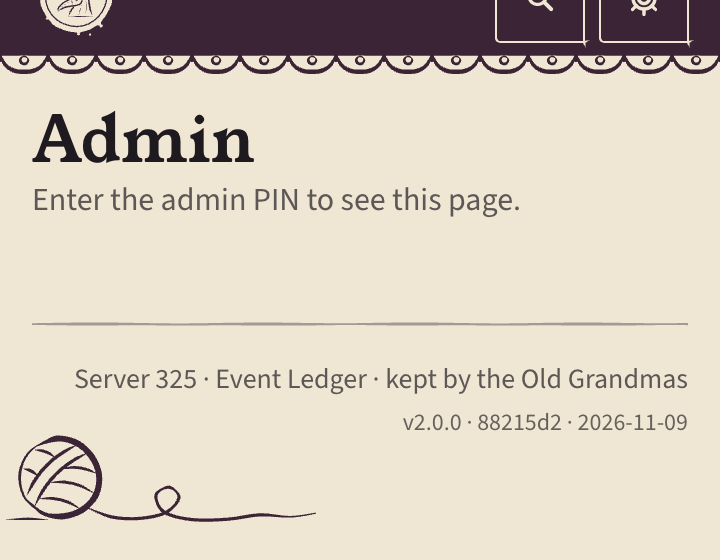
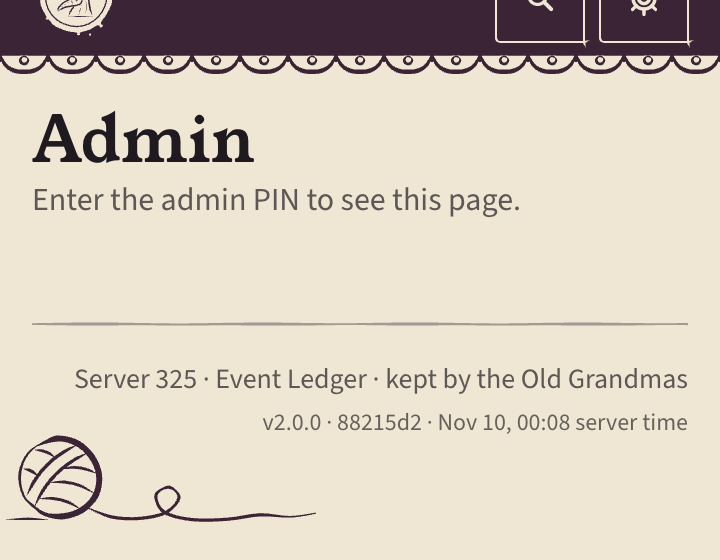
feat(footer): write the build time with the page's clock (#193)
The owner wants the full date formatted like the system's other dates. The
build now inlines only the label (release or branch, short commit) and the ISO
build time; SiteFooter formats the time with the page's Clock (clock.at), so it
follows the viewer's language, zone and date order on public pages and server
time on /admin. SiteFooter and ErrorPage take a required clock; the client
error boundaries pass null and show the label alone. D58 records the owner's
answers: only releases reach main, and the contrast rule stays.

Changed region(s): [[0.3667, 0.7286, 0.9472, 0.7893]]

diff --git a/app/_ui/SiteFooter.tsx b/app/_ui/SiteFooter.tsx
@@ -1,18 +1,25 @@
 // Page footer: the ledger's byline on the right and one corner ornament at the bottom left, out of the
 // content's way (DESIGN.md ornament budget): the yarn ball by default, the Granny Doctor on the error
-// and player pages. Under the byline, the build line (D58): release or branch, short commit, build date,
-// inlined at build time by next.config.ts.
+// and player pages. Under the byline, the build line (D58): release or branch and short commit, inlined
+// by next.config.ts, then the build time in the page's clock like every other date.
 import { GrannyStanding } from "@/lib/brand/components/Mascot";
 import { YarnCorner } from "@/lib/brand/components/YarnCorner";
 import type { Dictionary } from "@/lib/copy";
 
+import type { Clock } from "./format";
+
 export function SiteFooter({
   ornament = "yarn",
+  clock,
   copy,
 }: {
   ornament?: "yarn" | "granny";
+  /** The page's clock; null in the client error boundaries, which then show no build time. */
+  clock: Clock | null;
   copy: Dictionary;
 }) {
+  const builtAt = process.env.BUILD_AT;
+  const build = [process.env.BUILD_LABEL, builtAt && clock ? clock.at(new Date(builtAt)) : null];
   return (
     <footer
       className={`relative mx-auto mt-8 max-w-[960px] px-4 text-plum sm:px-6 ${ornament === "granny" ? "h-36" : "h-28"}`}
@@ -21,7 +28,9 @@ export function SiteFooter({
       <p className="text-right text-body-sm text-ink/70">
         {copy.site.ledger} · {copy.site.byline}
       </p>
-      <p className="mt-1 text-right text-xs text-ink/65 tabular-nums">{process.env.BUILD_LINE}</p>
+      <p className="mt-1 text-right text-xs text-ink/65 tabular-nums">
+        {build.filter(Boolean).join(" · ")}
+      </p>
       {ornament === "granny" ? (
         <GrannyStanding className="absolute bottom-2 left-2 w-20" />
       ) : (

diff --git a/lib/build-line.ts b/lib/build-line.ts
@@ -1,15 +1,20 @@
-// The footer's build line (D58): which build is live. next.config.ts calls this once per build with
-// Vercel's system variables and the build's clock, and inlines the result as process.env.BUILD_LINE.
-// A main deploy of a release merge commit shows the release; any other deploy shows its branch.
+// The footer's build line (D58): which build is live. next.config.ts calls buildInfo once per build with
+// Vercel's system variables and the build's clock, and inlines both values with `env`. BUILD_LABEL is the
+// release on a main deploy of a release merge commit, else the branch, then the short commit; BUILD_AT
+// is the build time (ISO, empty locally), which the footer formats with the request's clock like every
+// other date.
 // The line release-publish.yml matches (D29): on any line, so GitHub's default merge message works too.
 const RELEASE = /^release: (v\d+\.\d+\.\d+)/m;
 
 // Reads VERCEL_GIT_COMMIT_SHA, VERCEL_GIT_COMMIT_REF and VERCEL_GIT_COMMIT_MESSAGE.
-export function buildLine(env: Record<string, string | undefined>, builtAt: Date): string {
+export function buildInfo(
+  env: Record<string, string | undefined>,
+  builtAt: Date,
+): { BUILD_LABEL: string; BUILD_AT: string } {
   const sha = env.VERCEL_GIT_COMMIT_SHA;
-  if (!sha) return "local";
+  if (!sha) return { BUILD_LABEL: "local", BUILD_AT: "" };
   const ref = env.VERCEL_GIT_COMMIT_REF;
   const release =
     ref === "main" ? RELEASE.exec(env.VERCEL_GIT_COMMIT_MESSAGE ?? "")?.[1] : undefined;
-  return [release ?? ref, sha.slice(0, 7), builtAt.toISOString().slice(0, 10)].join(" · ");
+  return { BUILD_LABEL: `${release ?? ref} · ${sha.slice(0, 7)}`, BUILD_AT: builtAt.toISOString() };
 }

diff --git a/lib/build-line.test.ts b/lib/build-line.test.ts
@@ -1,18 +1,21 @@
 import { describe, expect, it } from "vitest";
 
-import { buildLine } from "./build-line";
+import { buildInfo } from "./build-line";
 
 const builtAt = new Date("2026-11-08T23:30:00Z");
 const SHA = "88215d2f0c1e4b7a9d3e5f60718293a4b5c6d7e8";
 
-describe("buildLine", () => {
+describe("buildInfo", () => {
   it("shows the release on a main deploy of a release merge commit", () => {
     const env = {
       VERCEL_GIT_COMMIT_SHA: SHA,
       VERCEL_GIT_COMMIT_REF: "main",
       VERCEL_GIT_COMMIT_MESSAGE: "release: v2.0.0 (#190)\n\nNotes",
     };
-    expect(buildLine(env, builtAt)).toBe("v2.0.0 · 88215d2 · 2026-11-08");
+    expect(buildInfo(env, builtAt)).toEqual({
+      BUILD_LABEL: "v2.0.0 · 88215d2",
+      BUILD_AT: "2026-11-08T23:30:00.000Z",
+    });
   });
 
   it("shows the branch, not a version, on a dev deploy even of a release commit", () => {
@@ -21,10 +24,10 @@ describe("buildLine", () => {
       VERCEL_GIT_COMMIT_REF: "dev",
       VERCEL_GIT_COMMIT_MESSAGE: "release: v2.0.0 (#190)",
     };
-    expect(buildLine(env, builtAt)).toBe("dev · 88215d2 · 2026-11-08");
+    expect(buildInfo(env, builtAt).BUILD_LABEL).toBe("dev · 88215d2");
   });
 
-  it("reads local when no Vercel commit is set", () => {
-    expect(buildLine({}, builtAt)).toBe("local");
+  it("reads local, with no build time, when no Vercel commit is set", () => {
+    expect(buildInfo({}, builtAt)).toEqual({ BUILD_LABEL: "local", BUILD_AT: "" });
   });
 });

diff --git a/app/_ui/SiteFooter.test.ts b/app/_ui/SiteFooter.test.ts
@@ -1,0 +1,29 @@
+import { createElement } from "react";
+import { renderToStaticMarkup } from "react-dom/server";
+import { afterEach, describe, expect, it, vi } from "vitest";
+
+import { en } from "@/lib/copy";
+
+import { makeClock } from "./format";
+import { SiteFooter } from "./SiteFooter";
+
+const buildLine = (html: string) => /tabular-nums">([^<]*)<\/p>/.exec(html)?.[1];
+
+describe("SiteFooter", () => {
+  afterEach(() => vi.unstubAllEnvs());
+
+  it("writes the build time with the page's clock, like every other date", () => {
+    vi.stubEnv("BUILD_LABEL", "v2.0.0 · 88215d2");
+    vi.stubEnv("BUILD_AT", "2026-11-08T23:30:00.000Z");
+    const clock = makeClock("en", "Etc/GMT+2", { own: false, date: "dd/mm" });
+    const html = renderToStaticMarkup(createElement(SiteFooter, { clock, copy: en }));
+    expect(buildLine(html)).toBe("v2.0.0 · 88215d2 · 08/11, 21:30 server time");
+  });
+
+  it("leaves the build time out where the page has no clock (the client error boundaries)", () => {
+    vi.stubEnv("BUILD_LABEL", "dev · 88215d2");
+    vi.stubEnv("BUILD_AT", "2026-11-08T23:30:00.000Z");
+    const html = renderToStaticMarkup(createElement(SiteFooter, { clock: null, copy: en }));
+    expect(buildLine(html)).toBe("dev · 88215d2");
+  });
+});

diff --git a/app/_ui/ErrorPage.tsx b/app/_ui/ErrorPage.tsx
@@ -6,6 +6,7 @@ import type { ReactNode } from "react";
 import { buttonClass } from "@/lib/brand/components/Button";
 import type { Dictionary } from "@/lib/copy";
 
+import type { Clock } from "./format";
 import { SiteFooter } from "./SiteFooter";
 import { SiteHeader } from "./SiteHeader";
 
@@ -15,6 +16,7 @@ export function ErrorPage({
   body,
   art,
   actions,
+  clock,
   copy,
 }: {
   code: string;
@@ -22,6 +24,8 @@ export function ErrorPage({
   body: string;
   art: ReactNode;
   actions: ReactNode;
+  /** The request's clock for the footer's build time; null in the client error boundaries. */
+  clock: Clock | null;
   /** The request's words, or English in global-error, which has no provider. */
   copy: Dictionary;
 }) {
@@ -41,7 +45,7 @@ export function ErrorPage({
           </div>
         </div>
       </main>
-      <SiteFooter ornament="granny" copy={copy} />
+      <SiteFooter ornament="granny" clock={clock} copy={copy} />
     </>
   );
 }

diff --git a/app/not-found.tsx b/app/not-found.tsx
@@ -2,7 +2,7 @@
 import Link from "next/link";
 
 import { ErrorPage, primaryAction } from "@/app/_ui/ErrorPage";
-import { requestCopy } from "@/app/_ui/locale";
+import { requestClock, requestCopy } from "@/app/_ui/locale";
 import { YarnLeftBehind } from "@/lib/brand/components/Vignettes";
 
 export async function generateMetadata() {
@@ -11,7 +11,7 @@ export async function generateMetadata() {
 }
 
 export default async function NotFound() {
-  const copy = await requestCopy();
+  const [clock, copy] = await Promise.all([requestClock(), requestCopy()]);
   const t = copy.errors.notFound;
   return (
     <ErrorPage
@@ -19,6 +19,7 @@ export default async function NotFound() {
       title={t.title}
       body={t.body}
       art={<YarnLeftBehind />}
+      clock={clock}
       copy={copy}
       actions={
         <Link href="/" className={primaryAction}>

diff --git a/app/_ui/EmptyEvents.tsx b/app/_ui/EmptyEvents.tsx
@@ -1,10 +1,10 @@
 import { EmptyState } from "./EmptyState";
-import { requestCopy } from "./locale";
+import { requestClock, requestCopy } from "./locale";
 import { SiteFooter } from "./SiteFooter";
 import { SiteHeader } from "./SiteHeader";
 
 export async function EmptyEvents() {
-  const copy = await requestCopy();
+  const [clock, copy] = await Promise.all([requestClock(), requestCopy()]);
   return (
     <>
       <SiteHeader events={[]} currentId={null} homeId={null} copy={copy} />
@@ -12,7 +12,7 @@ export async function EmptyEvents() {
         <h1 className="sr-only">{copy.site.name}</h1>
         <EmptyState>{copy.empty.kettle}</EmptyState>
       </main>
-      <SiteFooter copy={copy} />
+      <SiteFooter clock={clock} copy={copy} />
     </>
   );
 }

diff --git a/app/_ui/admin/AdminShell.tsx b/app/_ui/admin/AdminShell.tsx
@@ -25,7 +25,7 @@ const NAV = [
 ];
 
 export async function AdminShell({ title, children }: { title: string; children: ReactNode }) {
-  const unlocked = await isAdmin();
+  const [unlocked, clock] = await Promise.all([isAdmin(), requestServerClock()]);
   return (
     // English whatever the viewer's language (D48): the lang attribute says so for this subtree.
     <div lang="en">
@@ -33,7 +33,7 @@ export async function AdminShell({ title, children }: { title: string; children:
       <main className="mx-auto max-w-[960px] px-4 py-4 sm:px-6">
         {unlocked ? <Unlocked title={title}>{children}</Unlocked> : <PinGate />}
       </main>
-      <SiteFooter copy={copy} />
+      <SiteFooter clock={clock} copy={copy} />
     </div>
   );
 }

diff --git a/next.config.ts b/next.config.ts
@@ -2,7 +2,7 @@
 // `env` inlines the footer's build line at build time (D58).
 import type { NextConfig } from "next";
 
-import { buildLine } from "./lib/build-line";
+import { buildInfo } from "./lib/build-line";
 
 const securityHeaders = [
   { key: "X-Content-Type-Options", value: "nosniff" },
@@ -17,7 +17,7 @@ const securityHeaders = [
 
 const nextConfig: NextConfig = {
   poweredByHeader: false,
-  env: { BUILD_LINE: buildLine(process.env, new Date()) },
+  env: buildInfo(process.env, new Date()),
   async headers() {
     return [{ source: "/:path*", headers: securityHeaders }];
   },

diff --git a/app/(pages)/events/[id]/alliances/[unionId]/page.tsx b/app/(pages)/events/[id]/alliances/[unionId]/page.tsx
@@ -304,7 +304,7 @@ export default async function AlliancePage({ params }: { params: Params }) {
         <MemberList detail={detail} canDelta={canDelta} />
         <AcrossEvents unionId={unionId} history={history} clock={clock} />
       </main>
-      <SiteFooter copy={copy} />
+      <SiteFooter clock={clock} copy={copy} />
     </>
   );
 }

diff --git a/app/(pages)/players/[uid]/page.tsx b/app/(pages)/players/[uid]/page.tsx
@@ -201,7 +201,7 @@ export default async function PlayerPage({ params }: { params: Params }) {
           showAlliance={new Set(history.alliances.map((a) => a.unionId)).size > 1}
         />
       </main>
-      <SiteFooter ornament="granny" copy={copy} />
+      <SiteFooter ornament="granny" clock={clock} copy={copy} />
     </>
   );
 }

diff --git a/app/(pages)/events/compare/page.tsx b/app/(pages)/events/compare/page.tsx
@@ -162,7 +162,7 @@ export default async function ComparePage({ searchParams }: { searchParams: Sear
         )}
         {c && <Results c={c} one={one !== undefined} clock={clock} copy={copy} />}
       </main>
-      <SiteFooter copy={copy} />
+      <SiteFooter clock={clock} copy={copy} />
     </>
   );
 }
